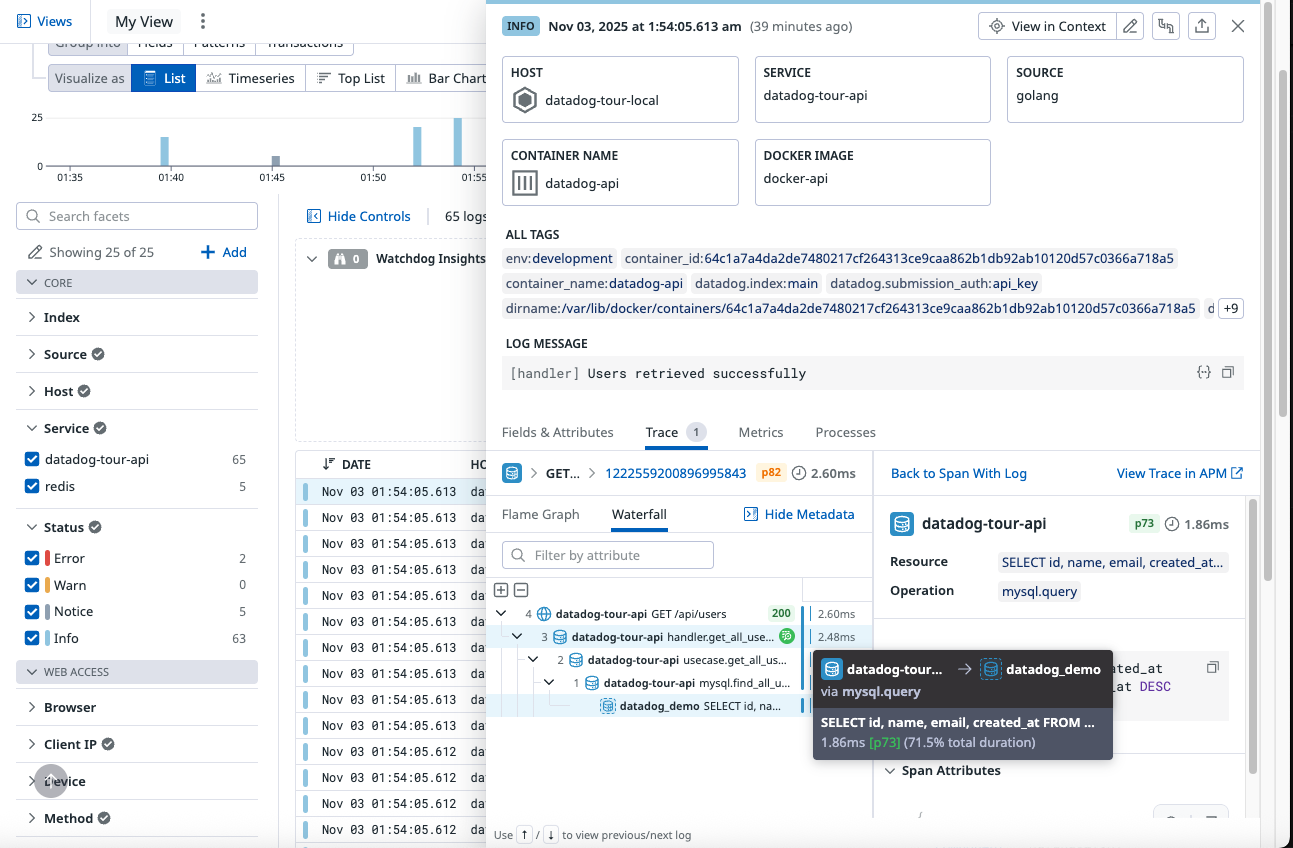
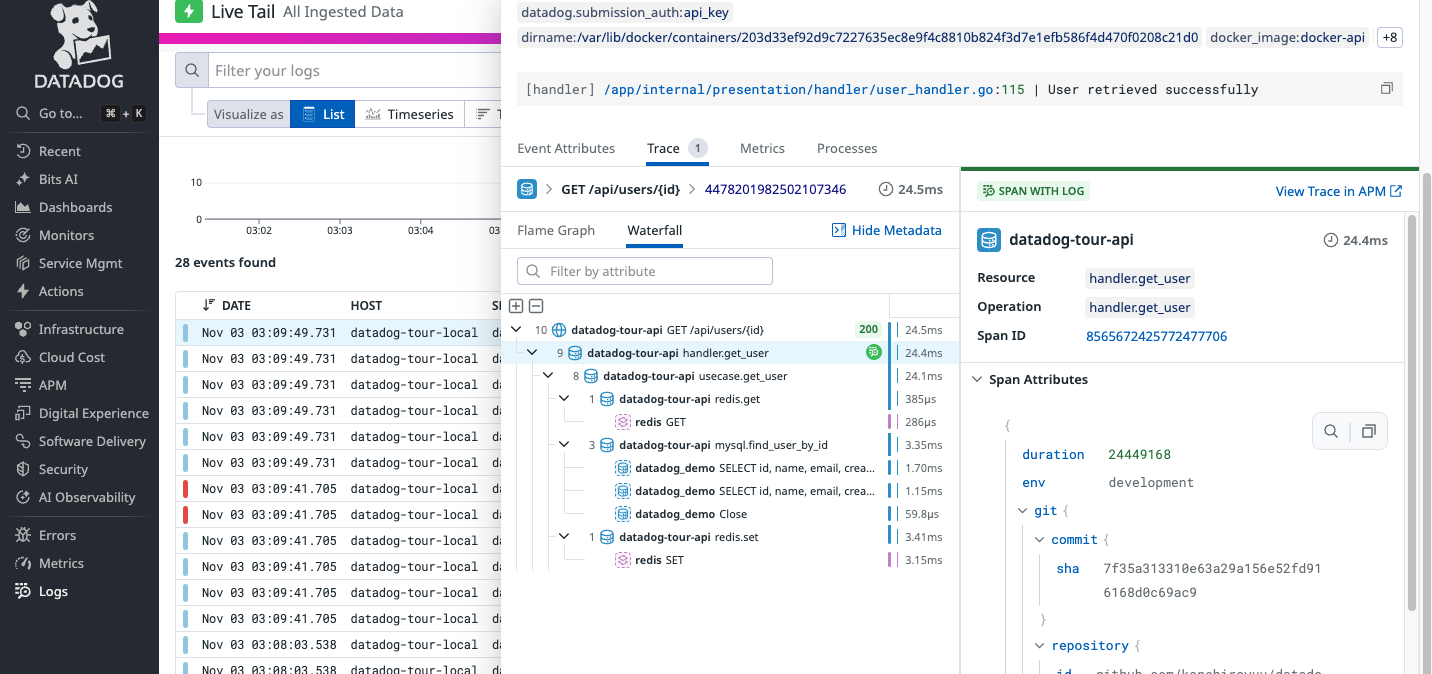
refactor: SQLのBind ParamがDatadogに出力されるように対応, add: Test handlerをFrontendからデバッグできるように対応

diff --git a/frontend/pages/users/index.vue b/frontend/pages/users/index.vue
@@ -55,13 +55,41 @@
       </div>
     </div>
 
+    <!-- Datadog Test Endpoints -->
+    <div class="card shadow-sm mb-4">
+      <div class="card-header bg-warning text-dark">
+        <h5 class="mb-0">Datadog Test Endpoints</h5>
+      </div>
+      <div class="card-body">
+        <p class="text-muted">
+          These endpoints are for demonstrating Datadog APM features. Check traces in Datadog after calling them.
+        </p>
+        <div class="d-flex gap-2">
+          <button @click="testSlowEndpoint" class="btn btn-outline-warning" :disabled="testingSlowEndpoint">
+            <span v-if="testingSlowEndpoint">Testing...</span>
+            <span v-else>Test Slow Endpoint (2s delay)</span>
+          </button>
+          <button @click="testErrorEndpoint" class="btn btn-outline-danger" :disabled="testingErrorEndpoint">
+            <span v-if="testingErrorEndpoint">Testing...</span>
+            <span v-else>Test Error Endpoint</span>
+          </button>
+        </div>
+        <div v-if="testSlowMessage" class="alert alert-info mt-3" role="alert">
+          {{ testSlowMessage }}
+        </div>
+        <div v-if="testErrorMessage" class="alert alert-warning mt-3" role="alert">
+          {{ testErrorMessage }}
+        </div>
+      </div>
+    </div>
+
     <!-- Users List -->
     <div class="card shadow-sm">
       <div class="card-header bg-secondary text-white d-flex justify-content-between align-items-center">
         <h5 class="mb-0">Users List</h5>
         <button @click="fetchUsers" class="btn btn-light btn-sm" :disabled="loading">
           <span v-if="loading">Loading...</span>
-          <span v-else>🔄 Refresh</span>
+          <span v-else>Refresh</span>
         </button>
       </div>
       <div class="card-body">
@@ -170,6 +198,59 @@ const createMessage = ref('')
 const createError = ref('')
 
 const selectedUser = ref<User | null>(null)
+
+// Test endpoints
+const testingSlowEndpoint = ref(false)
+const testingErrorEndpoint = ref(false)
+const testSlowMessage = ref('')
+const testErrorMessage = ref('')
+
+// Test slow endpoint
+const testSlowEndpoint = async () => {
+  testingSlowEndpoint.value = true
+  testSlowMessage.value = ''
+
+  try {
+    const startTime = Date.now()
+    const response = await fetch(`${apiBase}/api/slow`)
+    const endTime = Date.now()
+    const data = await response.json()
+
+    if (data.success) {
+      testSlowMessage.value = `Slow endpoint responded in ${endTime - startTime}ms. Check Datadog APM for trace details!`
+      setTimeout(() => {
+        testSlowMessage.value = ''
+      }, 5000)
+    }
+  } catch (err) {
+    testSlowMessage.value = 'Failed to call slow endpoint'
+    console.error(err)
+  } finally {
+    testingSlowEndpoint.value = false
+  }
+}
+
+// Test error endpoint
+const testErrorEndpoint = async () => {
+  testingErrorEndpoint.value = true
+  testErrorMessage.value = ''
+
+  try {
+    const response = await fetch(`${apiBase}/api/error`)
+    const data = await response.json()
+
+    // Error endpoint always returns error
+    testErrorMessage.value = `Error endpoint called successfully. Error trace sent to Datadog: "${data.message}"`
+    setTimeout(() => {
+      testErrorMessage.value = ''
+    }, 5000)
+  } catch (err) {
+    testErrorMessage.value = 'Failed to call error endpoint'
+    console.error(err)
+  } finally {
+    testingErrorEndpoint.value = false
+  }
+}
 
 // Fetch users
 const fetchUsers = async () => {

diff --git a/internal/infrastructure/mysql/user_repository.go b/internal/infrastructure/mysql/user_repository.go
@@ -4,6 +4,7 @@ import (
 	"context"
 	"database/sql"
 	"fmt"
+	"time"
 
 	"github.com/kanehiroyuu/datadog-tour/internal/common/logging"
 	"github.com/kanehiroyuu/datadog-tour/internal/domain"
@@ -28,16 +29,22 @@ func NewUserRepository(db *sql.DB, logger *logrus.Logger) *UserRepository {
 func (r *UserRepository) Create(ctx context.Context, user *domain.User) error {
 	query := "INSERT INTO users (name, email, created_at) VALUES (?, ?, ?)"
 
-	r.logWithTrace(ctx, "Executing SQL query", logrus.Fields{
+	r.logWithTrace(ctx, fmt.Sprintf("SQL: %s [params: name=%s, email=%s, created_at=%v]", query, user.Name, user.Email, user.CreatedAt), logrus.Fields{
 		"query": query,
 		"user.name": user.Name,
 		"user.email": user.Email,
+		"user.created_at": user.CreatedAt,
 	})
 
+	startTime := time.Now()
 	result, err := r.db.ExecContext(ctx, query, user.Name, user.Email, user.CreatedAt)
+	duration := time.Since(startTime)
 	if err != nil {
-		r.logErrorWithTrace(ctx, "Failed to execute SQL query", err, logrus.Fields{
+		r.logErrorWithTrace(ctx, fmt.Sprintf("SQL Error: %s [params: name=%s, email=%s] [duration: %v]", query, user.Name, user.Email, duration), err, logrus.Fields{
 			"query": query,
+			"user.name": user.Name,
+			"user.email": user.Email,
+			"sql.duration_ms": duration.Milliseconds(),
 		})
 		return fmt.Errorf("failed to insert user: %w", err)
 	}
@@ -50,8 +57,9 @@ func (r *UserRepository) Create(ctx context.Context, user *domain.User) error {
 
 	user.ID = int(id)
 
-	r.logWithTrace(ctx, "User created in database", logrus.Fields{
+	r.logWithTrace(ctx, fmt.Sprintf("SQL result: User created with ID=%d [duration: %v]", user.ID, duration), logrus.Fields{
 		"user.id": user.ID,
+		"sql.duration_ms": duration.Milliseconds(),
 	})
 
 	return nil
@@ -61,37 +69,43 @@ func (r *UserRepository) Create(ctx context.Context, user *domain.User) error {
 func (r *UserRepository) FindByID(ctx context.Context, id int) (*domain.User, error) {
 	query := "SELECT id, name, email, created_at FROM users WHERE id = ?"
 
-	r.logWithTrace(ctx, "Executing SQL query", logrus.Fields{
+	r.logWithTrace(ctx, fmt.Sprintf("SQL: %s [params: id=%d]", query, id), logrus.Fields{
 		"query": query,
 		"user.id": id,
 	})
 
 	var user domain.User
 
+	startTime := time.Now()
 	err := r.db.QueryRowContext(ctx, query, id).Scan(
 		&user.ID,
 		&user.Name,
 		&user.Email,
 		&user.CreatedAt,
 	)
+	duration := time.Since(startTime)
 
 	if err == sql.ErrNoRows {
-		r.logWithTrace(ctx, "User not found in database", logrus.Fields{
+		r.logWithTrace(ctx, fmt.Sprintf("SQL result: User not found (id=%d) [duration: %v]", id, duration), logrus.Fields{
 			"user.id": id,
+			"sql.duration_ms": duration.Milliseconds(),
 		})
 		return nil, fmt.Errorf("user not found")
 	}
 
 	if err != nil {
-		r.logErrorWithTrace(ctx, "Failed to execute SQL query", err, logrus.Fields{
+		r.logErrorWithTrace(ctx, fmt.Sprintf("SQL Error: %s [params: id=%d] [duration: %v]", query, id, duration), err, logrus.Fields{
 			"query": query,
+			"user.id": id,
+			"sql.duration_ms": duration.Milliseconds(),
 		})
 		return nil, fmt.Errorf("failed to query user: %w", err)
 	}
 
-	r.logWithTrace(ctx, "User found in database", logrus.Fields{
+	r.logWithTrace(ctx, fmt.Sprintf("SQL result: Found user ID=%d, name=%s [duration: %v]", user.ID, user.Name, duration), logrus.Fields{
 		"user.id": user.ID,
 		"user.name": user.Name,
+		"sql.duration_ms": duration.Milliseconds(),
 	})
 
 	return &user, nil
@@ -101,14 +115,17 @@ func (r *UserRepository) FindByID(ctx context.Context, id int) (*domain.User, er
 func (r *UserRepository) FindAll(ctx context.Context) ([]*domain.User, error) {
 	query := "SELECT id, name, email, created_at FROM users ORDER BY created_at DESC LIMIT 100"
 
-	r.logWithTrace(ctx, "Executing SQL query", logrus.Fields{
+	r.logWithTrace(ctx, fmt.Sprintf("SQL: %s", query), logrus.Fields{
 		"query": query,
 	})
 
+	startTime := time.Now()
 	rows, err := r.db.QueryContext(ctx, query)
+	duration := time.Since(startTime)
 	if err != nil {
-		r.logErrorWithTrace(ctx, "Failed to execute SQL query", err, logrus.Fields{
+		r.logErrorWithTrace(ctx, fmt.Sprintf("SQL Error: %s [duration: %v]", query, duration), err, logrus.Fields{
 			"query": query,
+			"sql.duration_ms": duration.Milliseconds(),
 		})
 		return nil, fmt.Errorf("failed to query users: %w", err)
 	}
@@ -123,8 +140,9 @@ func (r *UserRepository) FindAll(ctx context.Context) ([]*domain.User, error) {
 		users = append(users, &user)
 	}
 
-	r.logWithTrace(ctx, "Users retrieved from database", logrus.Fields{
+	r.logWithTrace(ctx, fmt.Sprintf("SQL result: Retrieved %d users [duration: %v]", len(users), duration), logrus.Fields{
 		"users.count": len(users),
+		"sql.duration_ms": duration.Milliseconds(),
 	})
 
 	return users, nil

diff --git a/internal/presentation/handler/test_handler.go b/internal/presentation/handler/test_handler.go
@@ -1,0 +1,82 @@
+package handler
+
+import (
+	"context"
+	"errors"
+	"net/http"
+	"time"
+
+	"github.com/kanehiroyuu/datadog-tour/internal/common/logging"
+	"github.com/sirupsen/logrus"
+	"gopkg.in/DataDog/dd-trace-go.v1/ddtrace/tracer"
+)
+
+// TestHandler handles test endpoints for Datadog demonstrations
+type TestHandler struct {
+	logger *logrus.Logger
+}
+
+// NewTestHandler creates a new TestHandler
+func NewTestHandler(logger *logrus.Logger) *TestHandler {
+	return &TestHandler{
+		logger: logger,
+	}
+}
+
+// SlowEndpoint handles GET /api/slow - demonstrates slow requests
+func (h *TestHandler) SlowEndpoint(w http.ResponseWriter, r *http.Request) {
+	span, ctx := tracer.StartSpanFromContext(r.Context(), "handler.slow_endpoint")
+	defer span.Finish()
+
+	// Add request metadata to span
+	span.SetTag("http.method", r.Method)
+	span.SetTag("http.url", r.URL.Path)
+	span.SetTag("test.type", "slow_request")
+
+	h.logWithTrace(ctx, "Slow endpoint called - simulating 2 second delay")
+
+	// Simulate slow database query
+	span.SetTag("operation", "slow_query_simulation")
+	time.Sleep(2 * time.Second)
+
+	h.logWithTrace(ctx, "Slow operation completed")
+
+	RespondSuccessWithTrace(ctx, w, http.StatusOK, map[string]interface{}{
+		"message": "This endpoint intentionally took 2 seconds to respond",
+		"delay":   "2s",
+	}, "Slow request completed successfully")
+}
+
+// ErrorEndpoint handles GET /api/error - demonstrates error tracing
+func (h *TestHandler) ErrorEndpoint(w http.ResponseWriter, r *http.Request) {
+	span, ctx := tracer.StartSpanFromContext(r.Context(), "handler.error_endpoint")
+	defer span.Finish()
+
+	// Add request metadata to span
+	span.SetTag("http.method", r.Method)
+	span.SetTag("http.url", r.URL.Path)
+	span.SetTag("test.type", "error_simulation")
+
+	h.logWithTrace(ctx, "Error endpoint called - will generate an error")
+
+	// Simulate an error
+	err := errors.New("simulated database connection error")
+
+	// Mark span as error
+	span.SetTag("error", true)
+	span.SetTag("error.msg", err.Error())
+	span.SetTag("error.type", "database_error")
+	span.SetTag("error.stack", "user_repository.go:42")
+
+	h.logErrorWithTrace(ctx, "Simulated error occurred", err)
+
+	RespondErrorWithTrace(ctx, w, http.StatusInternalServerError, "An intentional error occurred for Datadog demonstration")
+}
+
+func (h *TestHandler) logWithTrace(ctx context.Context, message string) {
+	logging.LogWithTrace(ctx, h.logger, "handler", message, nil)
+}
+
+func (h *TestHandler) logErrorWithTrace(ctx context.Context, message string, err error) {
+	logging.LogErrorWithTrace(ctx, h.logger, "handler", message, err, nil)
+}

diff --git a/internal/common/logging/logger.go b/internal/common/logging/logger.go
@@ -3,7 +3,6 @@ package logging
 import (
 	"context"
 	"fmt"
-	"path/filepath"
 	"runtime"
 
 	"github.com/sirupsen/logrus"
@@ -18,9 +17,15 @@ func LogWithTrace(ctx context.Context, logger *logrus.Logger, layer, message str
 
 	// Get caller information (skip 2 frames to get the actual caller)
 	_, file, line, ok := runtime.Caller(2)
+	var formattedMessage string
 	if ok {
-		fields["file"] = filepath.Base(file)
+		fields["file"] = file
 		fields["line"] = line
+		// Format message with layer, file, line, and message
+		formattedMessage = fmt.Sprintf("[%s] %s:%d | %s", layer, file, line, message)
+	} else {
+		// Fallback if caller info is not available
+		formattedMessage = fmt.Sprintf("[%s] %s", layer, message)
 	}
 
 	// Extract trace information from context
@@ -31,9 +36,6 @@ func LogWithTrace(ctx context.Context, logger *logrus.Logger, layer, message str
 	}
 
 	fields["layer"] = layer
-
-	// Format message with layer prefix
-	formattedMessage := fmt.Sprintf("[%s] %s", layer, message)
 
 	logger.WithFields(fields).Info(formattedMessage)
 }
@@ -46,9 +48,15 @@ func LogErrorWithTrace(ctx context.Context, logger *logrus.Logger, layer, messag
 
 	// Get caller information (skip 2 frames to get the actual caller)
 	_, file, line, ok := runtime.Caller(2)
+	var formattedMessage string
 	if ok {
-		fields["file"] = filepath.Base(file)
+		fields["file"] = file
 		fields["line"] = line
+		// Format message with layer, file, line, and message
+		formattedMessage = fmt.Sprintf("[%s] %s:%d | %s", layer, file, line, message)
+	} else {
+		// Fallback if caller info is not available
+		formattedMessage = fmt.Sprintf("[%s] %s", layer, message)
 	}
 
 	// Extract trace information from context
@@ -59,9 +67,6 @@ func LogErrorWithTrace(ctx context.Context, logger *logrus.Logger, layer, messag
 	}
 
 	fields["layer"] = layer
-
-	// Format message with layer prefix
-	formattedMessage := fmt.Sprintf("[%s] %s", layer, message)
 
 	logger.WithFields(fields).WithError(err).Error(formattedMessage)
 }

diff --git a/cmd/api/main.go b/cmd/api/main.go
@@ -137,6 +137,7 @@ func main() {
 	// Setup handlers
 	healthHandler := handler.NewHealthHandler(logger)
 	userHandler := handler.NewUserHandler(userUseCase, logger)
+	testHandler := handler.NewTestHandler(logger)
 
 	// Setup router with tracing
 	router := gorillatrace.NewRouter(gorillatrace.WithServiceName(os.Getenv("DD_SERVICE")))
@@ -149,6 +150,10 @@ func main() {
 	router.HandleFunc("/api/users", userHandler.CreateUser).Methods("POST")
 	router.HandleFunc("/api/users", userHandler.GetAllUsers).Methods("GET")
 	router.HandleFunc("/api/users/{id}", userHandler.GetUser).Methods("GET")
+
+	// Test endpoints for Datadog demonstration
+	router.HandleFunc("/api/slow", testHandler.SlowEndpoint).Methods("GET")
+	router.HandleFunc("/api/error", testHandler.ErrorEndpoint).Methods("GET")
 
 	// Setup CORS
 	corsHandler := cors.New(cors.Options{
